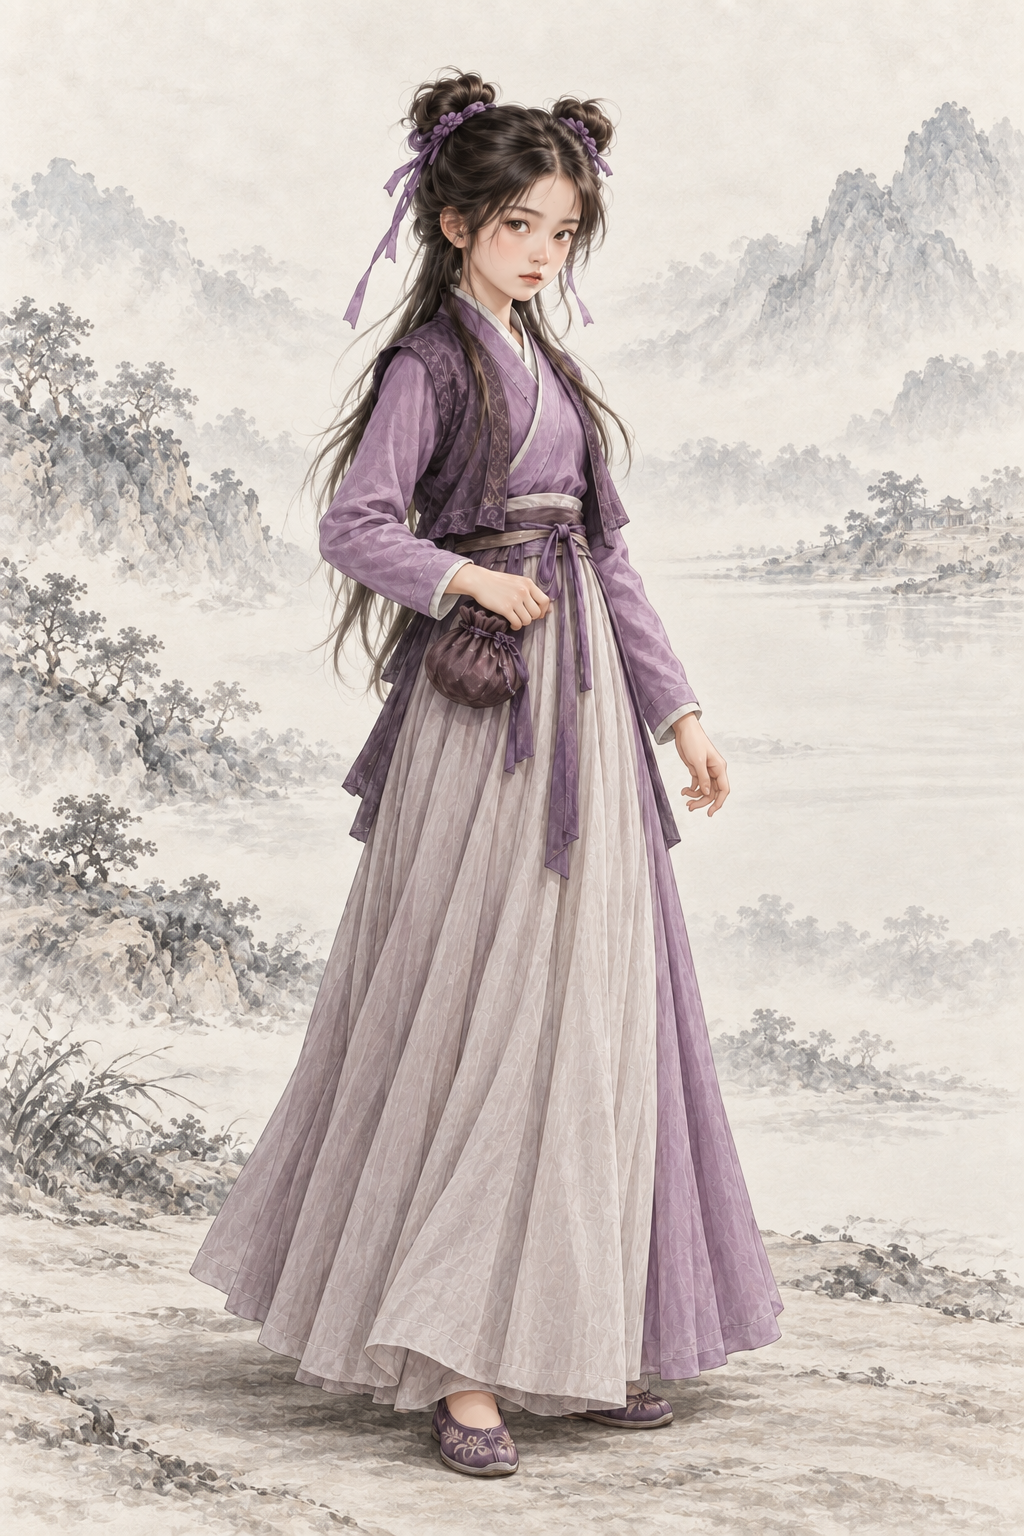
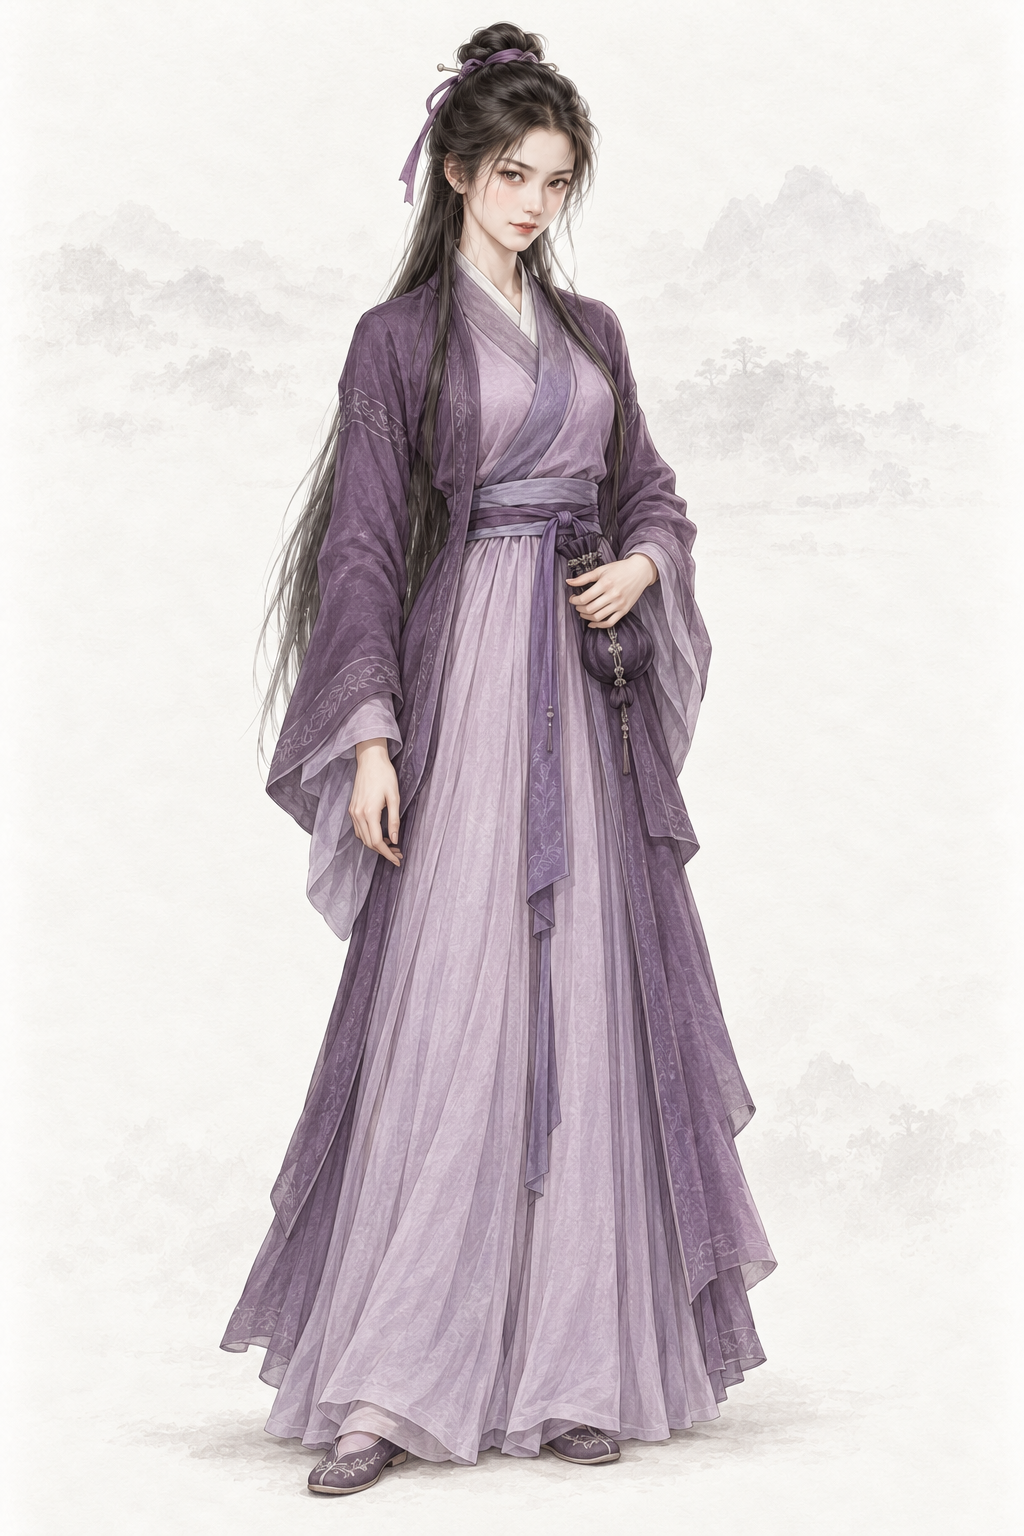
assets(character): por_npc_azi__ch01_youth_sighted_base 阿紫（codex）
AR-31：重要人物加经典造型文字描写（原创面孔）

diff --git a/assets/default/prompts/characters/ch01-tianlong/npc_azi.md b/assets/default/prompts/characters/ch01-tianlong/npc_azi.md
@@ -22,11 +22,32 @@ realism_revision: user_character_realism_20261001
 redo_reason: "明显幼态（孩童双髻与童颜），按禁止幼态画成成年年轻女子，保留原著紫衫、乌溜大眼与精乖狠辣"
 reference_upload:
 - assets/default/baseline/character/female/ref_npc_wangyuyan__ch01_base01.png
+codex_prompt_rev: 2026-10-02
 ---
 
 # 阿紫 · 人物写实修正
 
 ## Gemini 提示词
+
+> 2026-10-02 AR-31 改写（1 号出图员，codex exec · image_gen 出图）：重要人物借鉴经典影视造型，只写成文字——不写演员名、不上传剧照、原创面孔；主角和美人画得好看，去 AI 味，禁止幼态。出图时上传两张同性别基线立绘作画风参考（放在最后）。审核组原稿保留在下一节作历史。
+
+```text
+生成一张 2:3 竖幅全身人物立绘：单人、单一视角、完整全身——头顶、双手、双脚和手中器物的两端都在画面内，四周留出自然空白；人物站姿自然，身体基本朝向正面，头部端正（不歪头、不仰不俯），镜头平视。
+【画风】写实手绘古风人物插画，与本项目写实武侠角色立绘同一画风：人物是完整、坚实、比例真实的写实绘画；皮肤有真实质感——细小毛孔、细纹、晒痕、轻微色斑和自然的左右不对称，不磨皮、不油亮；头发有一根根的发丝和自然碎发；布料看得出经纬纹理、厚薄和自然垂坠的褶皱，带穿用过的轻微旧化，但完整不破烂；整体设色低饱和、沉稳；柔和的自然光从左上方照来，明暗过渡自然，不打舞台光、轮廓光或美颜柔光。这是手绘写实绘画，不是照片，不是三维渲染，也不是动漫或游戏 CG。
+【背景】不透明的暖浅灰色纸底，只在远处有极淡的水墨远山和薄雾，大面积留白；人物与背景明暗分明、轮廓边缘干净完整（后续要自动抠图），水墨和纸纹只在背景里，不侵入人物和衣服；脚下只有很淡的一点接触阴影。
+【人物】阿紫，《天龙八部》星宿派弟子，段正淳与阮星竹之女、阿朱的妹妹；小镜湖初遇之后、尚未失明的阶段。机灵任性、心狠手辣。
+【年龄与体态】原著十五六岁，按本作规定画成约十九二十岁的成年年轻女子，身材纤巧但为成人比例。成年女性的身体比例（约 7 头身），衣着完整端庄、不透明、不暴露、不性感化。
+【经典造型】借鉴经典武侠影视里这个角色深入人心的造型，只取发型、装束、配色、标志道具、气质和脸型类型，用原创面孔画出来，不像任何真实演员：一身紫衣、精灵古怪的阿紫——乌发挽成俏皮的发髻、缀紫色丝带，眼神狡黠带着邪气，笑容似笑非笑，娇俏里藏着狠劲（已是成年人）。
+【面容】原著写她全身紫衫，一双大眼乌溜溜的，满脸精乖之气，秀眉星目，皮色白净。具体为：成年骨相的心形脸、下巴尖巧；一双大而黑亮的眼睛，眼神狡黠、透着一股狠劲；秀长的眉毛微微上挑；鼻梁挺、鼻头小；薄唇，嘴角似笑非笑带点讥诮；皮肤白净。娇俏美丽、带一点邪气的美。
+【发式】成年女子的发式：头顶挽一个小髻，其余乌发披在背后，用一条紫色细发带系住；不扎孩童式双丫髻。
+【服饰】全身紫色系：深浅紫的交领右衽窄袖短衫，暗紫短褙子，藕紫齐腰长裙，紫色布带，平底鞋。
+【道具】腰间系一只扎紧口的小皮囊（星宿派毒物袋），一手护着它；另一手自然垂下。
+【姿态与神情】身体微侧但头部端正，下巴微抬，眼神精乖而带挑衅，像随时准备捉弄人。
+【不要】画面里不要任何文字、题款、印章、签名、水印、边框、分格或多视图；不要第二个人；不要幼态（童颜、娃娃脸、婴儿肥、儿童或少年身材、大头小身）；不要塑料感皮肤、磨皮美颜、网红脸（尖下巴大眼高鼻的模板脸）、过度对称、浓妆、偶像式打光、蜡像感；不要照片质感、三维渲染或动漫大眼；不要歪头、斜镜头；不要多指、缺指（设定的伤残除外）、手与器物粘连或悬空；汉式交领必须右衽（穿着者的左襟压在右襟上），不要左衽（设定为少数民族服制的除外），不要水平镜像；不要现代物品、发光特效、法阵或能量光。不要双丫髻、娃娃脸、婴儿肥、儿童身材、卖萌表情；不要眼罩或失明（此阶段双眼完好）；不要神木王鼎或毒雾特效。
+【画风基线】随提示词上传的参考图里，最后两张是本项目的立绘画风基线：只参考它们的画风、用色、光线、质感和暖浅灰纸底加淡水墨的背景处理，整体画风必须与它们一致——精细写实的数字手绘插画，不是油画，不要厚涂笔触和画布纹理。参考图只取画风、光线、质感和背景处理，不取长相：不要照搬基线图里人物的长相、年龄、发型、服饰和姿势。
+```
+
+## 审核组 Gemini 提示词（2026-10-02 AR-30 重审稿；AR-31 改写前，历史，不再用于出图）
 
 > 2026-10-02 重要人物立绘重审（A 组，`tools/agents/reports/REVIEW-portraits-A-ch00-04.md`）：**整体重出**。明显幼态（孩童双髻与童颜），按禁止幼态画成成年年轻女子，保留原著紫衫、乌溜大眼与精乖狠辣。
 > 本条不上传任何参考图（`reference_upload: []`）；frontmatter 的 `references` 与本节以下内容是旧出图管线的历史记录，不再用于出图。
